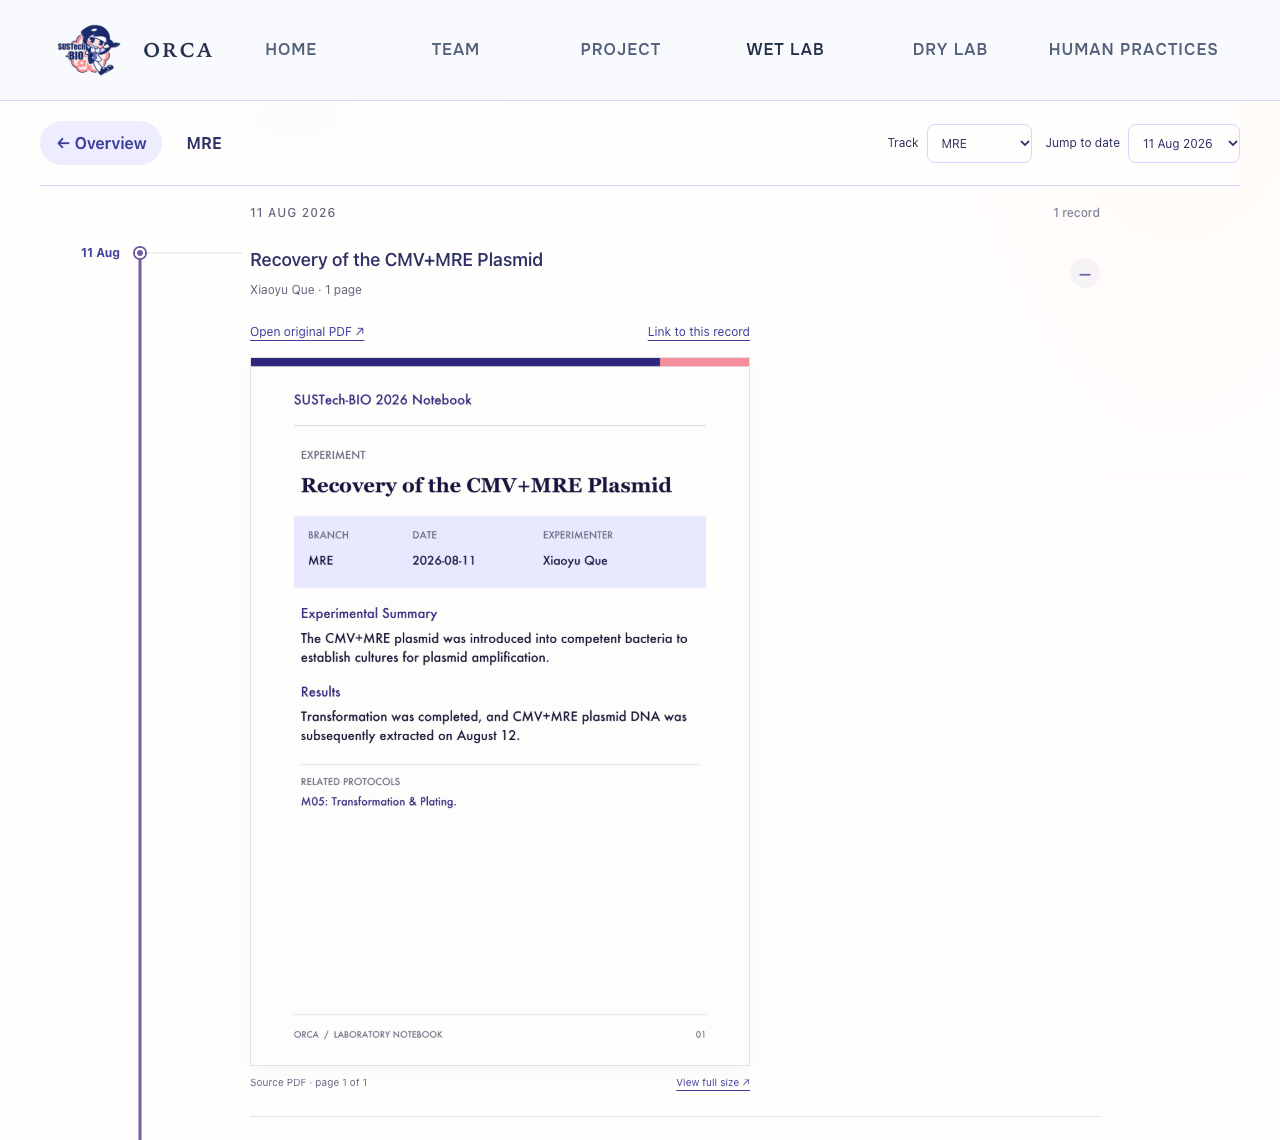
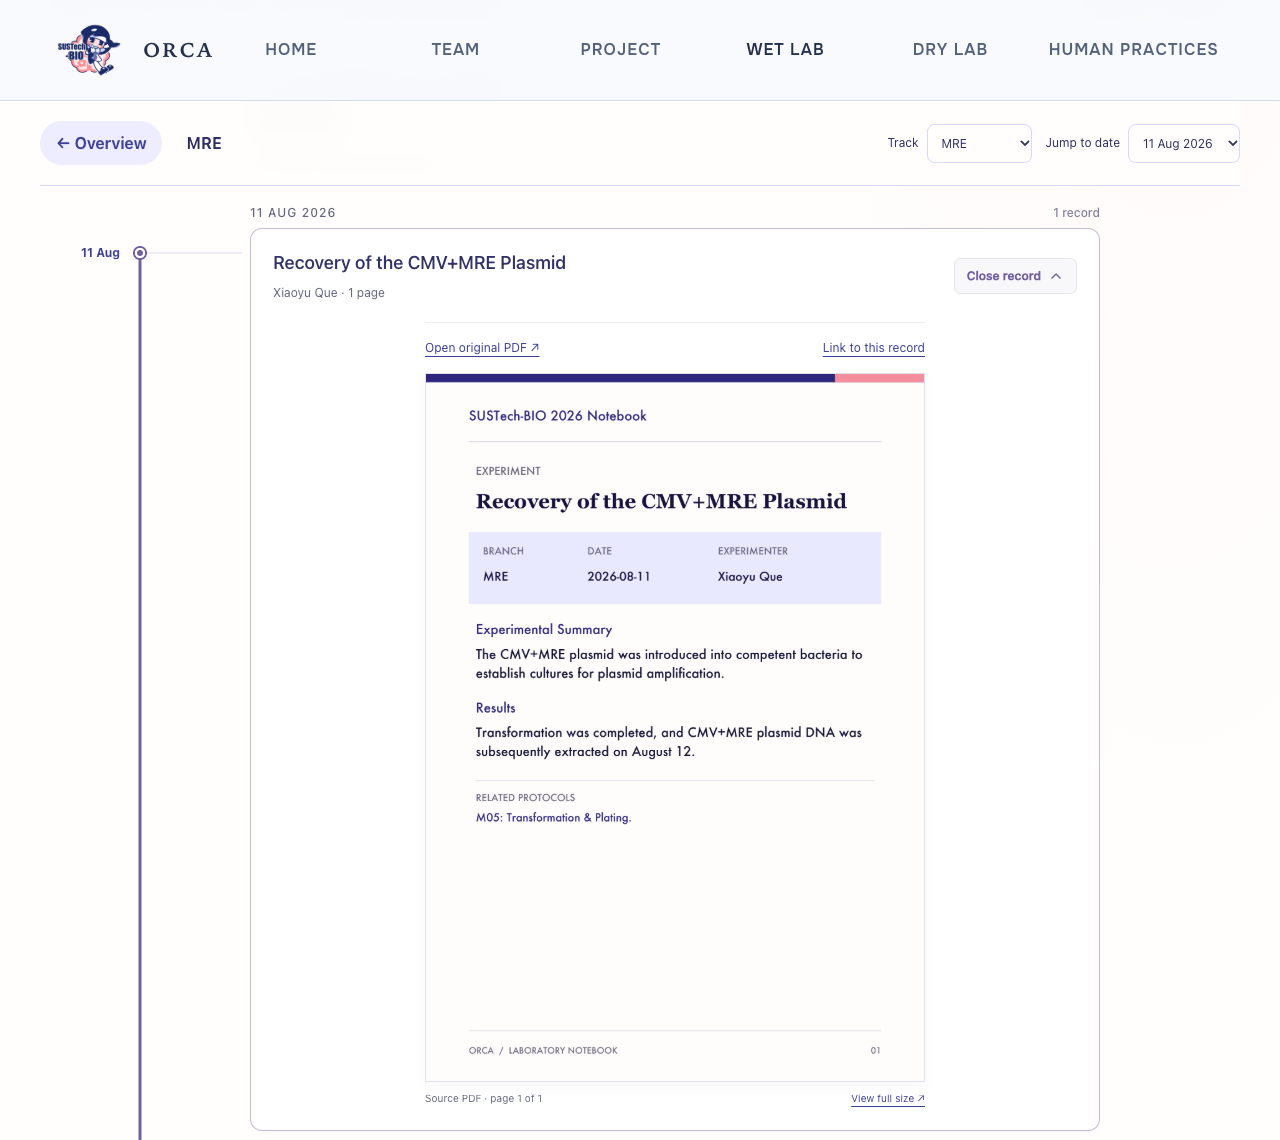
Enclose expanded notebook records and label reader controls

diff --git a/static/notebook/notebook.css b/static/notebook/notebook.css
@@ -93,7 +93,7 @@ body:has(.notebook-page) .reading-orbit{display:none!important}
   .nb-caption{font-size:12px;line-height:1.5;margin:16px 0}.nb-caption>p{max-width:none}
 }
 
-/* Focus reads like a notebook index: one rail, quiet rules and compact pages. */
+/* Focus keeps one rail and a continuous frame around each original record. */
 .nb-focus-heading{padding-left:210px}
 .nb-records,.nb-end{margin-left:210px;max-width:850px}
 .nb-app.is-focus .nb-axis{display:none}
@@ -102,17 +102,20 @@ body:has(.notebook-page) .reading-orbit{display:none!important}
 .nb-connector{stroke-dasharray:none;opacity:.2}
 .nb-day{padding-bottom:28px}
 .nb-day-label{font-size:12px;margin-bottom:8px}
-.nb-card{background:transparent;border:0;border-bottom:1px solid #e2e2ef;border-radius:0;box-shadow:none;margin-bottom:0}
+.nb-card{background:#fff;border:1px solid #dedfeb;border-radius:12px;box-shadow:0 2px 10px #2e306503;margin-bottom:12px;overflow:hidden;transition:border-color .2s}
+.nb-card.is-open{border-color:color-mix(in srgb,var(--track) 42%,white)}
 .nb-card::before{display:none}
-.nb-card-toggle{padding:18px 0 20px;border-radius:0;gap:22px;transition:color .2s}
-.nb-card-toggle:hover{background:transparent;color:var(--track)}
+.nb-card-toggle{padding:20px 22px;border-radius:11px;gap:22px;transition:color .2s,background .2s}
+.nb-card-toggle:hover{background:color-mix(in srgb,var(--track) 3%,white);color:var(--track)}
 .nb-card-title{font-size:18px;font-weight:550;line-height:1.5}
 .nb-card-meta{font-size:12px;margin-top:7px}
-.nb-chevron{display:grid;place-items:center;flex:0 0 30px;width:30px;height:30px;font-size:22px;font-weight:400;line-height:1;border-radius:50%;background:color-mix(in srgb,var(--track) 7%,var(--nb-paper))}
+.nb-chevron{display:inline-flex;align-items:center;justify-content:center;gap:7px;flex:0 0 auto;width:auto;height:auto;padding:9px 12px;font-size:12px;font-weight:550;line-height:1.3;white-space:nowrap;border:1px solid color-mix(in srgb,var(--track) 17%,white);border-radius:7px;background:color-mix(in srgb,var(--track) 5%,white)}
+.nb-chevron svg{width:16px;height:16px;transition:transform .2s}
+.nb-card-toggle[aria-expanded=true] .nb-chevron svg{transform:rotate(180deg)}
 .nb-card-toggle[aria-expanded=true] .nb-chevron{transform:none}
-.nb-card-body{padding:0 0 26px}
-.nb-source-actions{max-width:500px;border-top:0;padding:4px 0 16px;font-size:12px}
-.nb-pages{max-width:500px;gap:20px}
+.nb-card-body{padding:0 22px 24px}
+.nb-source-actions{max-width:500px;margin-inline:auto;border-top:1px solid #ececf5;padding:16px 0;font-size:12px}
+.nb-pages{max-width:500px;gap:20px;margin-inline:auto}
 .nb-pdf-page>a{border:1px solid #e1e1eb;box-shadow:0 4px 14px #2e306509}
 .nb-page-caption{font-size:10px;line-height:1.5}
 @media(max-width:1000px){
@@ -123,8 +126,11 @@ body:has(.notebook-page) .reading-orbit{display:none!important}
   .nb-focus-heading{padding-left:0}
   .nb-records,.nb-end{margin-left:32px}
   .nb-day{padding-bottom:22px}.nb-day-label{font-size:10px}
-  .nb-card-toggle{padding:14px 0 18px;gap:10px}
+  .nb-card-toggle{padding:16px;gap:13px;flex-direction:column;align-items:flex-start}
   .nb-card-title{font-size:15px}.nb-card-meta{font-size:10px}
-  .nb-chevron{flex-basis:26px;width:26px;height:26px;font-size:20px}
+  .nb-chevron{font-size:11px;padding:7px 10px}
+  .nb-card-body{padding:0 12px 18px}
   .nb-source-actions{font-size:11px;gap:8px}
 }
+
+@media(prefers-reduced-motion:reduce){.nb-chevron svg,.nb-card,.nb-card-toggle{transition:none}}

diff --git a/docs/notebook/VALIDATION.md b/docs/notebook/VALIDATION.md
@@ -47,7 +47,8 @@ assets or dependencies are needed.
 
 Focus now displays only the selected experimental lane; the other lanes are
 hidden from both sight and keyboard navigation. Track switching remains in the
-toolbar. Record headings use simple divider rows, and original pages are limited
+toolbar. Each record uses a continuous rounded frame with explicit View record / Close
+record controls, and original pages are limited
 to a 500px outer width while retaining full-size and PDF links. The reviewed MRE
 preview rendered at 498 × 707px.
 
@@ -57,3 +58,8 @@ visible and that the two-page QX01 preview stays within the reading-width limit.
 
 - [Single-track record list](qa/reader-list.png)
 - [Compact original-page reader](qa/reader-original.png)
+
+The enclosing-frame revision also passed the Chrome suite, including desktop
+and 834/390/320px layouts, opening/closing multipage records, measured node
+alignment and PDF fallback. Review screenshots above show the final framed
+reader with the 500px page limit retained.

diff --git a/docs/notebook/README.md b/docs/notebook/README.md
@@ -121,7 +121,9 @@ are removed from the DOM on collapse or track change and re-created on demand.
 No PDF renderer, iframe, canvas or image is loaded in Overview. Expanded records
 load only their indexed previews, with explicit dimensions and browser lazy
 loading. Previews use a maximum 500px reading width and shrink to fit mobile
-screens. Record titles use flat dividers rather than speech-bubble boxes. Each preview has a full-size link and a direct original PDF link with
+screens. Each record has a plain rounded frame that encloses its title and expands to
+contain the centered original pages. Explicit View record / Close record
+controls and direction arrows show the current action. Each preview has a full-size link and a direct original PDF link with
 `#page=N`. Failed previews retain a source-file fallback. `catalog.html` lists
 all originals when JavaScript or the manifest is unavailable.
 
